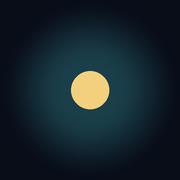
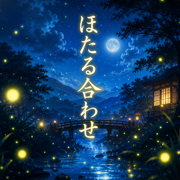
アプリアイコンを差し替え、Webマニフェストを追加
いただいた夜の森のイラストをアイコンにした。
角の丸み（半径は画像の約22%）の内側を正方形に切り出している。
丸いまま使うと iOS が二重に角を丸めて黒い隙間が出るため。

ファビコンだけは同じ絵を32pxに落とすと何の絵か分からなくなるので、
蛍1匹に寄せた別の切り抜きにした。

diff --git a/index.html b/index.html
@@ -29,6 +29,7 @@
 <meta name="twitter:image" content="https://kuuuu33.github.io/hotaru/assets/ogp.jpg">
 <link rel="icon" href="assets/favicon-32.png" sizes="32x32">
 <link rel="apple-touch-icon" href="assets/apple-touch-icon.png">
+<link rel="manifest" href="manifest.webmanifest">
 <style>
   :root{
     --bg-deep:#080D18;
